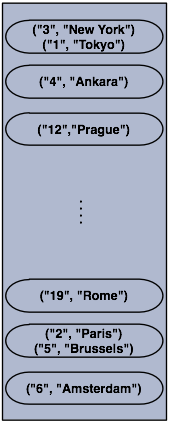
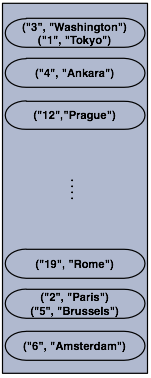
Sample map code/images conceptual correction

diff --git a/src/Map.md b/src/Map.md
@@ -19,7 +19,7 @@ public class FillMapMember {
     Map<String, String> capitalcities = hzInstance.getMap( "capitals" ); 
     capitalcities.put( "1", "Tokyo" );
     capitalcities.put( "2", "Paris” );
-    capitalcities.put( "3", "New York" );
+    capitalcities.put( "3", "Washington" );
     capitalcities.put( "4", "Ankara" );
     capitalcities.put( "5", "Brussels" );
     capitalcities.put( "6", "Amsterdam" );
